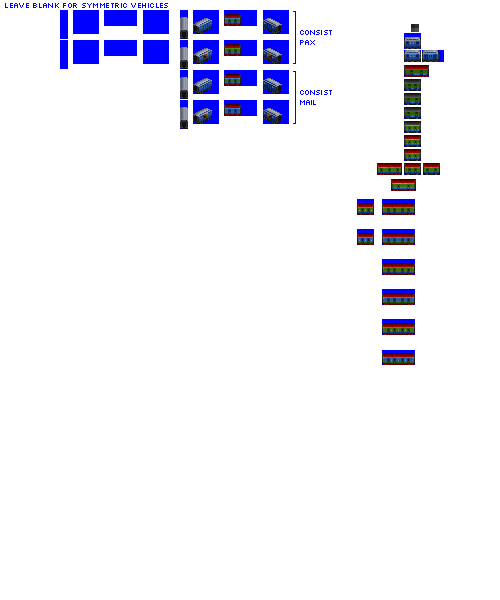
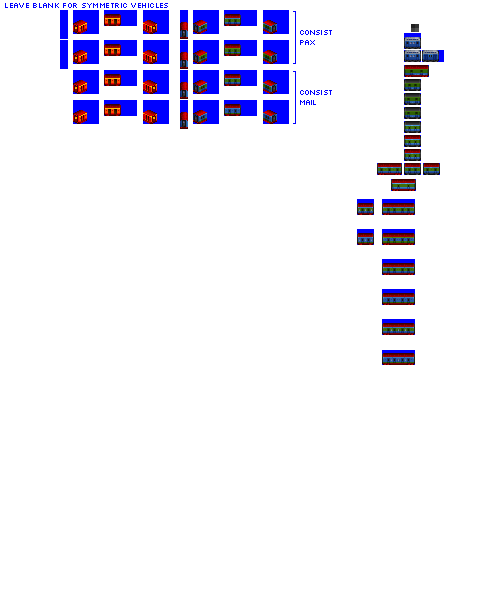
Change: sprites complete for gen 4A mail car

Changed region(s): [[0.12, 0.0, 0.42, 0.21], [0.51, 0.03, 0.57, 0.21], [0.27, 0.03, 0.33, 0.06]]

diff --git a/src/vehicles/mail_cars.py b/src/vehicles/mail_cars.py
@@ -95,7 +95,8 @@ def main():
     consist = MailCarConsist(roster='pony',
                              base_numeric_id=1430,
                              gen=4,
-                             subtype='A')
+                             subtype='A',
+                             sprites_complete=True)
 
     consist.add_unit(type=PaxMailCar,
                      capacity=12,
